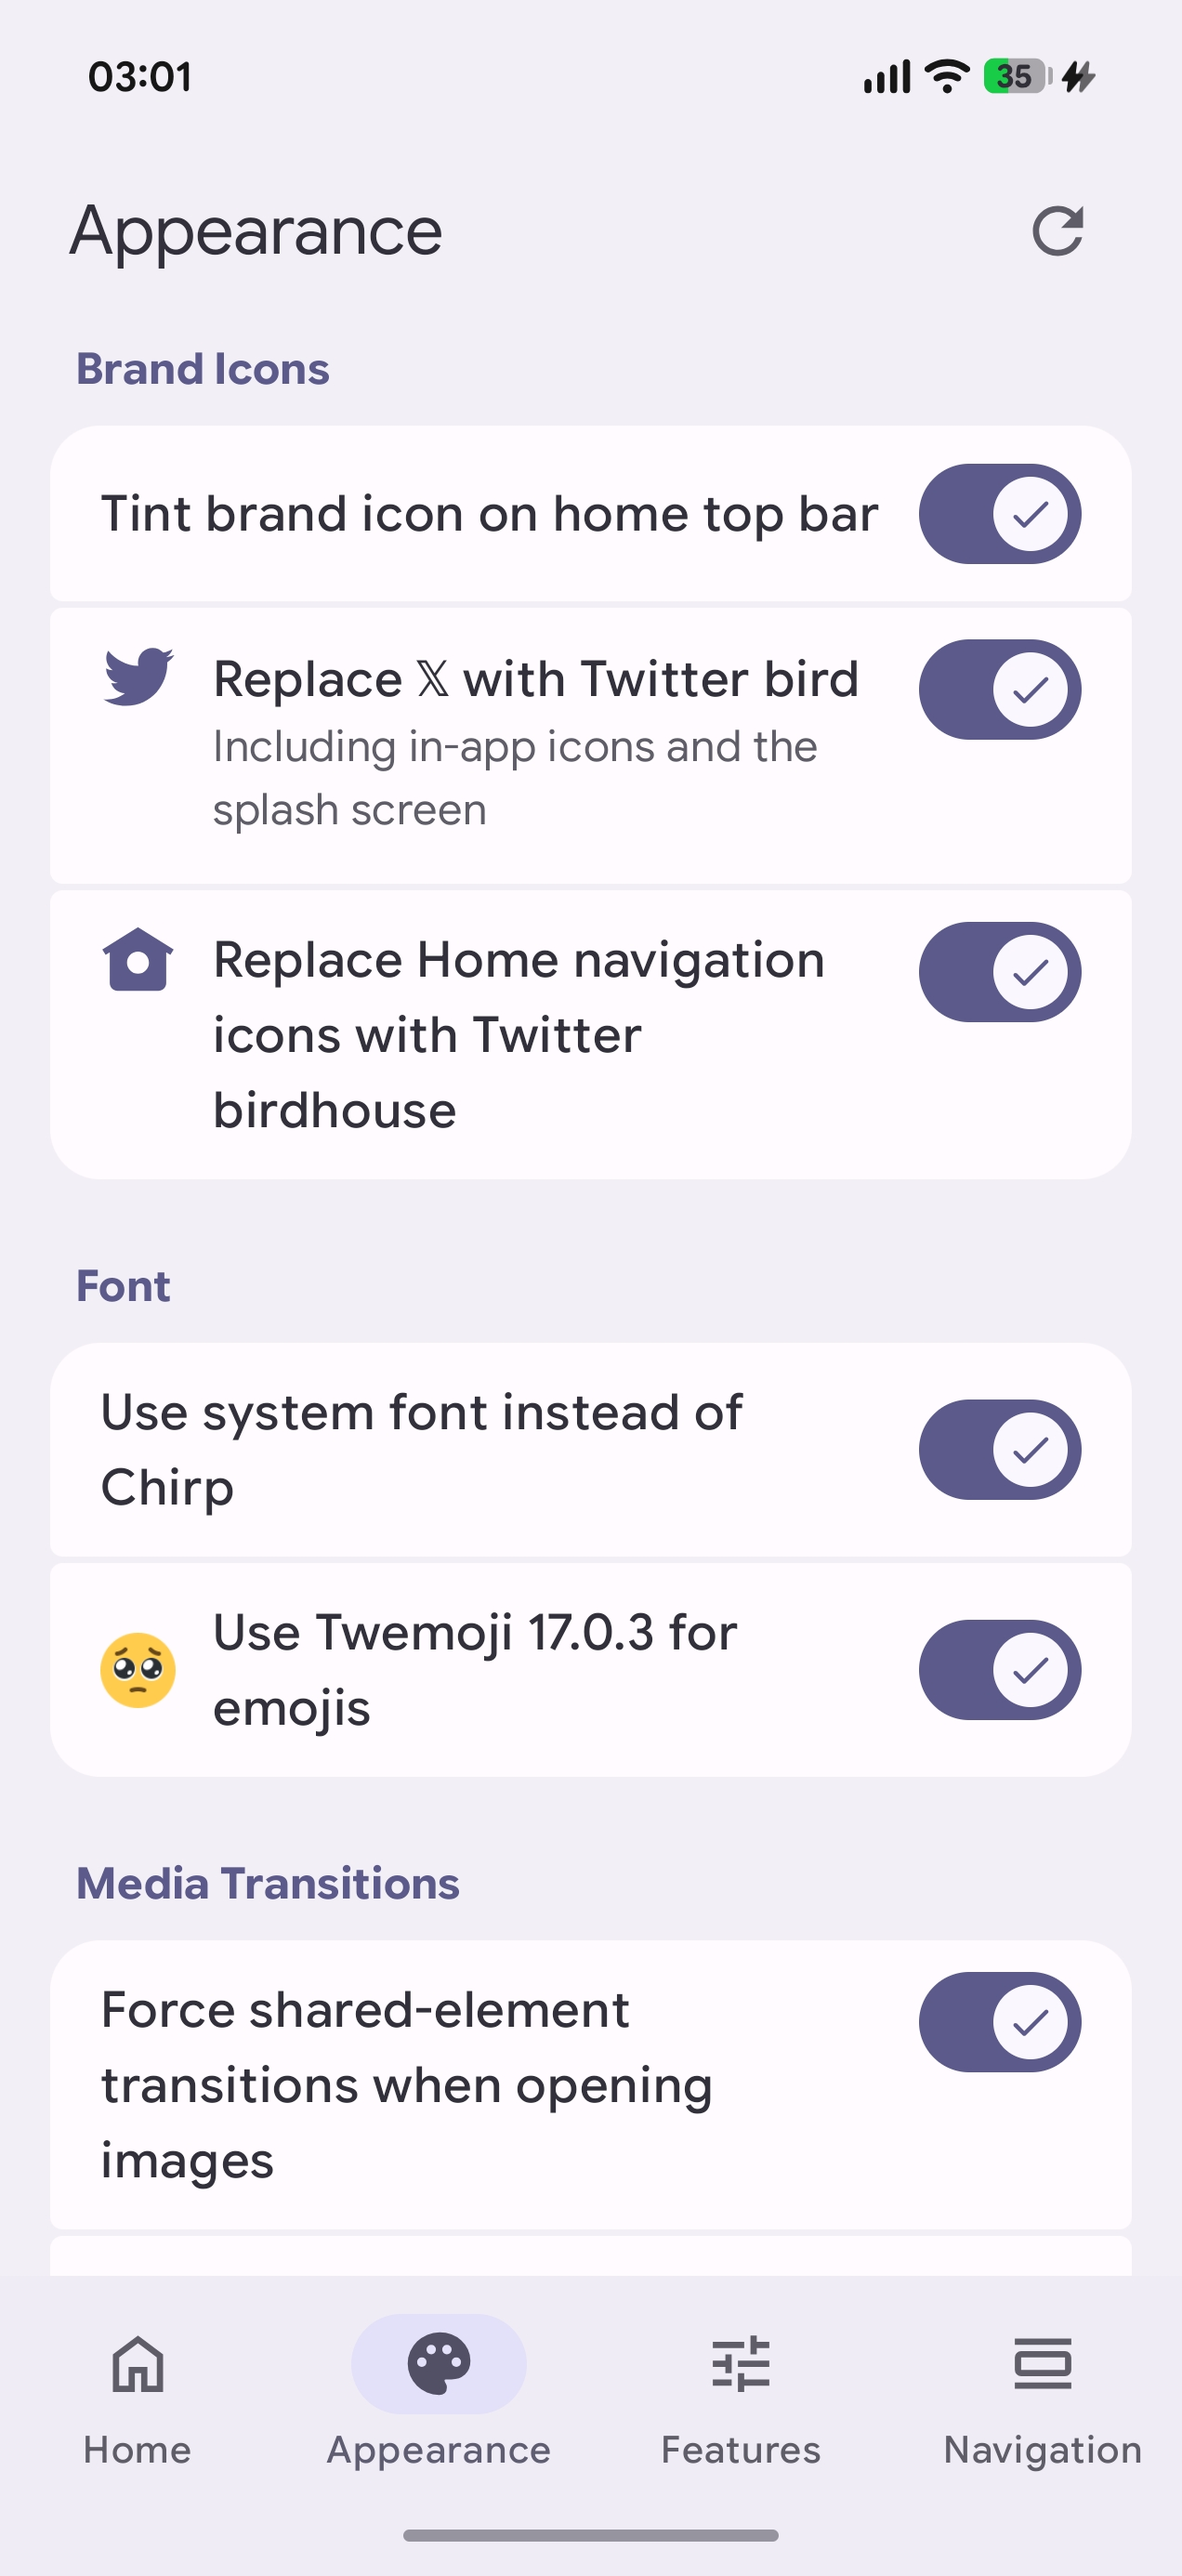
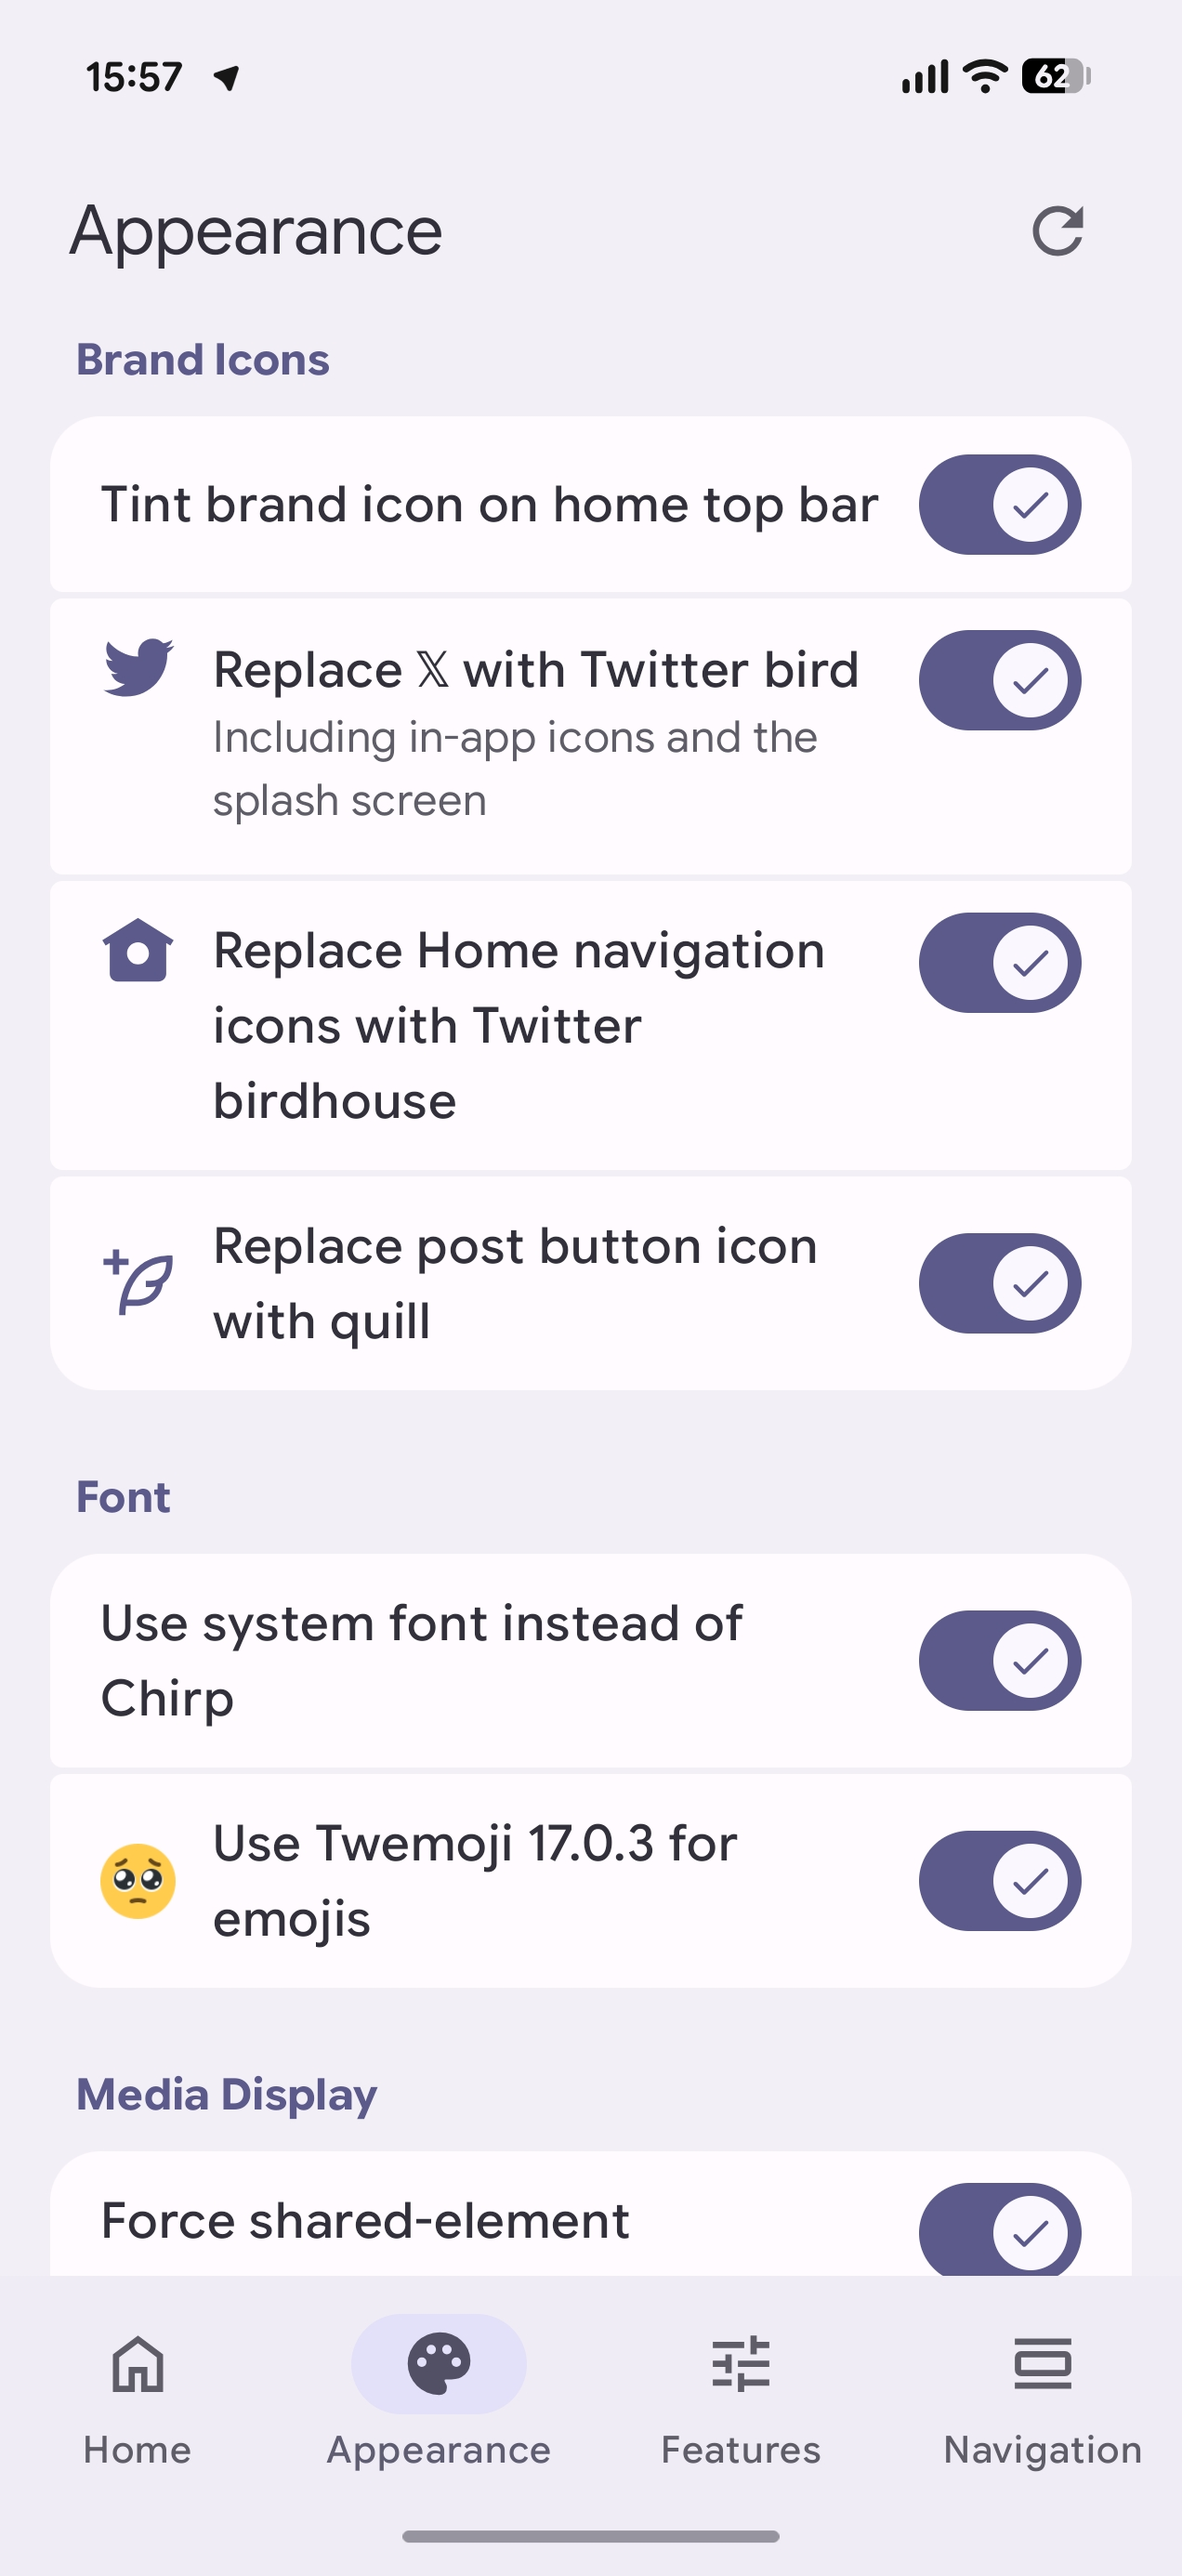
docs: refine README

diff --git a/README.md b/README.md
@@ -28,9 +28,9 @@
 <table>
   <tr>
     <td width="50%" align="center">
-      <img src="assets/screenshots/timeline.jpg" alt="Timeline and restored branding"><br>
+      <img src="assets/screenshots/timeline_alt.png" alt="Timeline and restored branding"><br>
       <strong>Timeline & restored branding</strong><br>
-      <sub>Dynamic colors, the Twitter bird, birdhouse Home icon, M3 FAB, a cleaner navigation bar, and cats</sub>
+      <sub>Dynamic colors, the Twitter bird, birdhouse Home icon, M3 FAB with La Pluma icon, a cleaner navigation bar, and cats</sub>
     </td>
     <td width="50%" align="center">
       <img src="assets/screenshots/appearance.jpg" alt="Appearance and brand icons"><br>
@@ -77,6 +77,7 @@
 - Tint the brand icon at the top of Home with the theme color, as old Twitter did, instead of rendering it in black or white.
 - Replace the 𝕏 logo with the Twitter bird.
 - Replace the Home navigation icon with the birdhouse icon.
+- Replace the post FAB button icon with the quill icon.
 - Use the system font instead of Chirp.
 - Use Twemoji like the web app and old Twitter.
 - Force shared-element transitions when opening images.
@@ -93,7 +94,8 @@
 - Hide promoted content in timelines and post replies.
 - Hide the live Spaces bar at the top of the timeline.
 - Hide the floating new-posts prompt at the top of the timeline.
-- Prevent the Home timeline from refreshing automatically when the app starts and in similar situations.
+- Prevent the Home timeline from refreshing automatically when the app starts or tab is switched.
+- Remember and restore the last tab when the app starts.
 - Remember and restore the last scroll position in the timeline when the app starts.
 - Set profile media tabs to a single Media tab, separate Photos and Videos tabs, or a combined tab that opens to a chosen media type by default.
 - Remove the standalone Reposts tab and return reposts to the Posts tab.
@@ -119,11 +121,18 @@
 
 - Browse and override Boolean Feature Switches collected from the currently supported X version.
 
-Results may depend on the X version, account experiments, and server-side configuration.
+### Planned / TODO
+
+The following features are under priority evaluation or development and may be added gradually in subsequent versions:
+
+- [ ] Grok translation source replacement
+- [ ] Conditional filtering of posts or replies
 
 ## Where does the “Re” come in?
 
-After Hachidori stopped being maintained, I never found another LSPosed solution that really fit the way I use X. Rather than maintain a separately patched client, I prefer to keep the official X app updating normally through the Play Store and let LSPosed make the changes at runtime.
+After Hachidori stopped being maintained, I never found another LSPosed solution that really fit the way I use X.
+
+The `Re` is basically about picking up where this kind of module left off and starting fresh at the same time. Re:X is built from the ground up specifically for the refactored X Android interface.
 
 It started simply because I couldn't stand that Premium users on iOS could customize their navigation bar while Android users still couldn't, so I added it myself. I'll probably keep adding little things I personally want to change, and I want the module's own settings UI to feel pleasant and easy to use too.
 
@@ -136,7 +145,7 @@ It started simply because I couldn't stand that Premium users on iOS could custo
 | Framework      | A recent LSPosed build, or another compatible framework providing Modern Xposed API 101–102 |
 | Target package | X for Android — `com.twitter.android`                                                       |
 | Current target | X 12.15.0-beta                                                                              |
-| Tested with    | X 12.14.0-release                                                                           |
+| Tested with    | X 12.14.0-release, X 12.13.0-release                                                                           |
 
 Re:X only targets the redesigned X interface introduced in 2026. The older pre-rewrite interface and legacy mode are not supported.
 
@@ -174,13 +183,7 @@ When reporting a compatibility issue, please include your Re:X version, X versio
 
 ## Support Re:X
 
-Re:X is free to use. If it makes scrolling X a little nicer, you can [support 1Dot on Ko-fi](https://ko-fi.com/1dot), or open **Support** in the app for a WeChat Reward Code and Alipay payment QR code.
-
-No need to feed me, though—just keep using it :)
-
-<p align="center">
-  <a href="https://ko-fi.com/1dot"><img alt="Support Re:X on Ko-fi" src="https://img.shields.io/badge/meow-Support_on_Ko--fi-FF5E5B?logo=kofi&amp;logoColor=white"></a>
-</p>
+Re:X is free to use. If it makes scrolling X a little nicer, you can [support 1Dot on Ko-fi](https://ko-fi.com/1dot).
 
 ## Distribution
 
